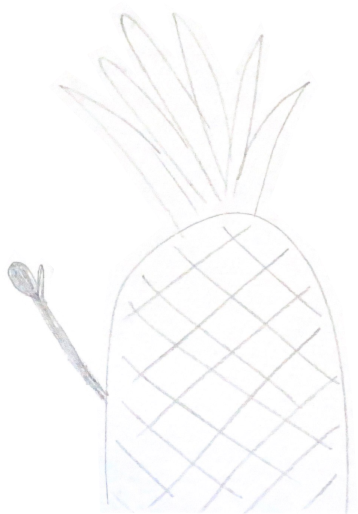
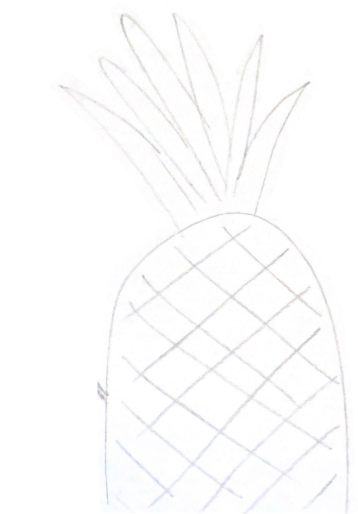
setup, move, interaction

Changed region(s): [[0.0, 0.4981, 0.2765, 0.7782]]

diff --git a/states/gameState.py b/states/gameState.py
@@ -1,6 +1,75 @@
+import pygame
+from settings import *
+from entities.player.player import Player
 from states.state import State
+from utils.miscellaneous import is_near_enough
 
 class GameState(State):
 
-    def __init__(self):
-        pass
+    def __init__(self, game):
+
+        super().__init__(game)
+
+        self.player = Player((WIDTH / 2, HEIGHT - 400))
+
+        bg_image = pygame.image.load('./graphics/poste_surveillance.png').convert_alpha()
+        self.background = bg_image
+
+        # activation system
+        self.activation_cooldown_time = 300
+        self.activation_time = pygame.time.get_ticks() + 500
+        self.can_activate_selection = False
+
+
+    def activation_cooldown(self):
+        if not self.can_activate_selection and pygame.time.get_ticks() - self.activation_time > self.activation_cooldown_time:
+            self.can_activate_selection = True
+
+
+    def activatePlayer(self):
+        self.player.activate()
+        
+        if self.can_activate_selection:
+
+            for location in [POLICE_BUTTON_X, CAM_BUTTON_X, PAPERS_X]:
+
+                if is_near_enough(location, self.player.rect.x, 50):
+                    print(location)
+
+                    self.can_activate_selection = False
+                    self.activation_time = pygame.time.get_ticks()
+
+
+    def playerMove(self, direction):
+        if self.player.canMove:
+            self.player.rect.x += direction * PLAYER_SPEED
+
+
+    def input(self):
+       
+        keys = pygame.key.get_pressed()
+
+        # player movement input
+        if keys[pygame.K_LEFT]: #left
+            self.playerMove(-1)
+        elif keys[pygame.K_RIGHT]: #right
+            self.playerMove(1)
+        else:
+            self.player.direction.x = 0
+
+        if keys[pygame.K_SPACE]or keys[pygame.K_RETURN]: # OK
+            self.activatePlayer()
+
+
+    def draw(self):
+        # draw background
+        self.display_surface.blit(self.background, (0,0))   
+
+        # draw player
+        self.display_surface.blit(self.player.image, (self.player.rect.x, self.player.rect.y))
+
+
+    def run(self):
+        self.draw()
+        self.player.update()
+        self.activation_cooldown()

diff --git a/entities/player/player.py b/entities/player/player.py
@@ -1,0 +1,51 @@
+import pygame
+from entities.player.playerInfo import PlayerInfo
+from entities.entity import Entity
+from settings import *
+
+class Player(Entity):
+
+    def __init__(self, pos: tuple):
+        super().__init__()
+
+        self.img_idle = './graphics/heros.png'
+        self.img_activated = './graphics/heros_bras_leve.png'
+
+        self.setImage(self.img_idle)
+        self.rect = self.image.get_rect(topleft = pos)
+
+        # movement
+        self.canMove = True
+
+        # stats
+        self.player_info = PlayerInfo()
+
+        # status
+        self.activation_cooldown_time = 600
+        self.activated_time = pygame.time.get_ticks() - self.activation_cooldown_time * 2
+        self.idle = True
+
+
+    def setImage(self, img):
+        image = pygame.image.load(img).convert_alpha()
+        rect = image.get_rect()
+        self.image = pygame.transform.scale(image, (int(rect.width * SCALE_FACTOR), int(rect.height * SCALE_FACTOR)))
+
+
+    def animation_cooldown(self):
+        now = pygame.time.get_ticks()
+        if not self.idle and  now - self.activated_time >= self.activation_cooldown_time:
+            self.setImage(self.img_idle)        
+            self.idle = True
+
+
+    def activate(self):
+        if self.idle:
+            self.setImage(self.img_activated)  
+            self.activated_time = pygame.time.get_ticks() 
+            self.idle = False
+
+
+    def update(self):
+        self.animation_cooldown()
+        

diff --git a/entities/entity.py b/entities/entity.py
@@ -1,0 +1,28 @@
+import pygame
+from utils.miscellaneous import get_distance_direction
+
+class Entity(pygame.sprite.Sprite):
+
+    def __init__(self):
+        super().__init__()
+        self.frame_index = 0
+        self.animation_speed = 0.05
+        self.direction = pygame.math.Vector2()
+
+        # invicibility timer
+        self.vulnerable = True
+        self.invicibility_cooldown = 175
+        self.hit_time = pygame.time.get_ticks() - self.invicibility_cooldown    
+
+        self.speed = 0
+
+
+    def move(self, speed):
+        if self.direction.magnitude() != 0:
+            self.direction = self.direction.normalize()
+
+        self.rect.x += self.direction.x * speed
+
+
+    def touches(self, sprite): 
+        return self.rect.colliderect(sprite.rect.inflate(2,2))

diff --git a/states/transitions/clapTransitionState.py b/states/transitions/clapTransitionState.py
@@ -7,6 +7,8 @@ class ClapTransitionState(TransitionState):
 
     def __init__(self, game, transition_mode, next_states = []):
         super().__init__(game, transition_mode, next_states)
+        self.transition_speed *= 5
+
 
 
     def draw(self):

diff --git a/utils/miscellaneous.py b/utils/miscellaneous.py
@@ -52,3 +52,6 @@ def get_distance_direction(checker, checked):
         
     return distance, direction
     
+
+def is_near_enough(target, number, margin):
+    return number >= target - margin and number <= target + margin

diff --git a/settings.py b/settings.py
@@ -24,3 +24,11 @@ MARGIN = 16
 
 TRANSITION_MODE_IN = 0
 TRANSITION_MODE_OUT = 1
+
+# Player
+PLAYER_SPEED = 5
+
+# INTERACTIONS
+POLICE_BUTTON_X = 535
+CAM_BUTTON_X = 705
+PAPERS_X = 945
